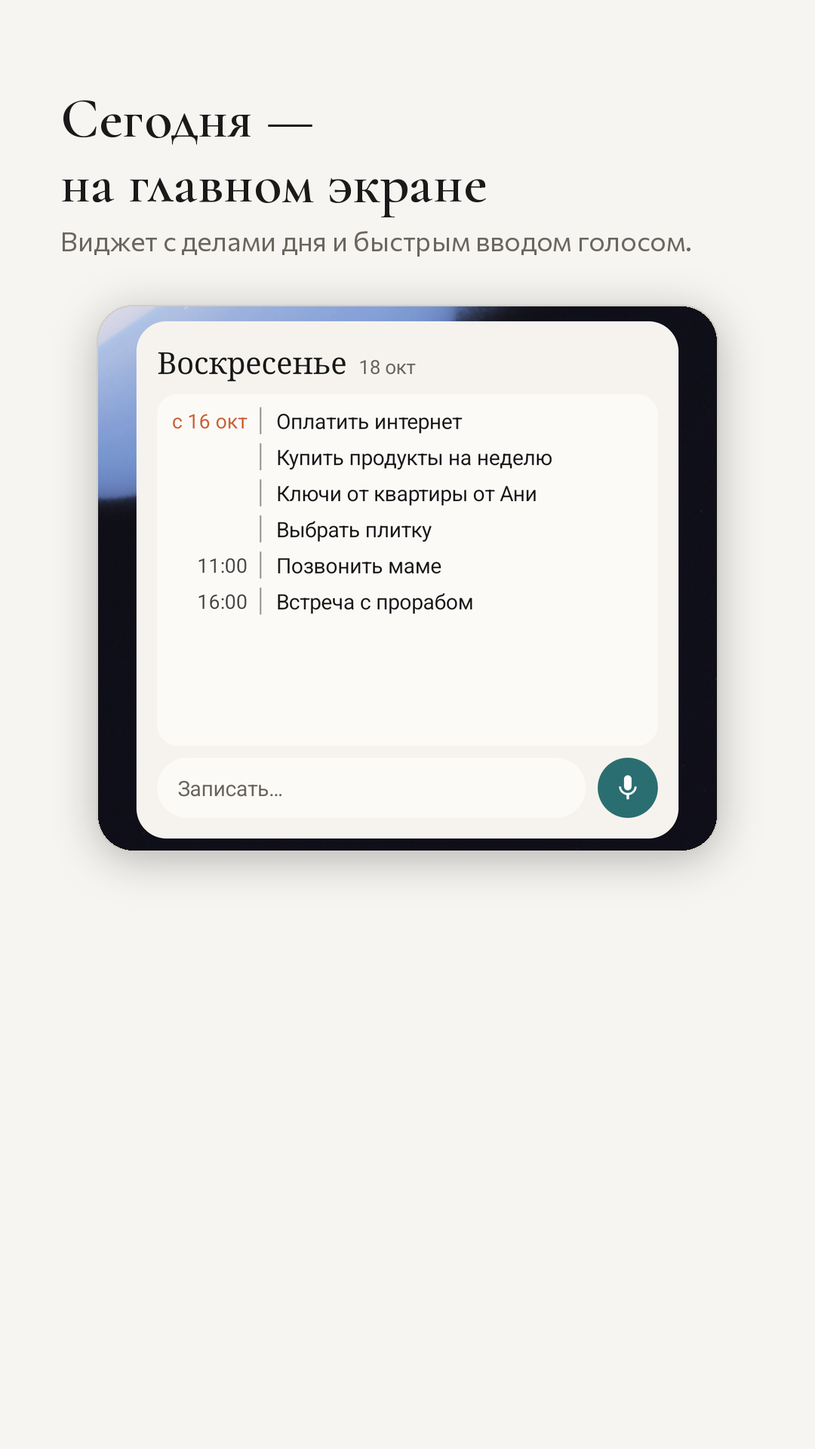
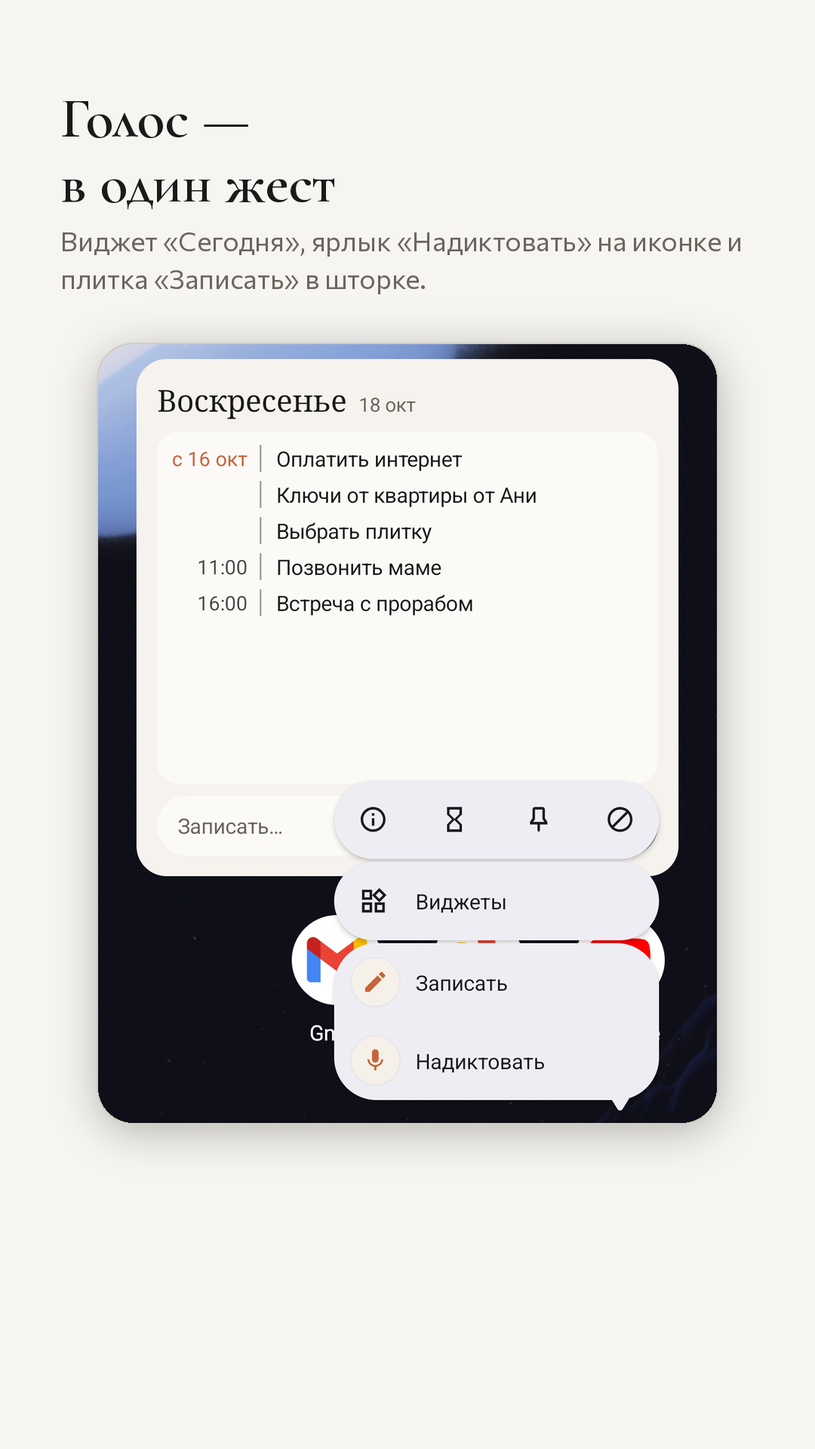
0.89: копия в файл и восстановление (Настройки → Резервная копия); виджет обновляется сразу; карточка RuStore — самая точная и быстрая расшифровка (сноска о скорости), ярлыки и плитка, копия в файл; скриншот с виджетом и ярлыками

diff --git a/app/src/main/java/ru/anjeib/margin/widget/TodayWidget.kt b/app/src/main/java/ru/anjeib/margin/widget/TodayWidget.kt
@@ -1,5 +1,7 @@
 package ru.anjeib.margin.widget
 
+import androidx.compose.runtime.collectAsState
+import androidx.compose.runtime.getValue
 import android.content.Context
 import android.content.Intent
 import androidx.compose.runtime.Composable
@@ -63,18 +65,21 @@ import java.util.Locale
 class TodayWidget : GlanceAppWidget() {
     override suspend fun provideGlance(context: Context, id: GlanceId) {
         L.lang = resolveLang(Prefs.get(context).settings.value.lang)
-        val data = Store.get(context).data.value
-        val today = LocalDate.now()
-        val due = data.listTasks().filter { !it.done && ((it.dueDate ?: it.startDate)?.let { d -> !d.isAfter(today) } == true || it.openWindow(today)) }
-            // The day's order as in the feed (0.85): late first, then the matters with no hour, then by the hour.
-            .sortedWith(compareBy({ (it.dueDate ?: it.startDate)?.isBefore(today) != true }, { it.time ?: "" }))
-        val s = L.s
-        val locale = if (L.lang == ru.anjeib.margin.i18n.Lang.Ru) Locale.forLanguageTag("ru") else Locale.ENGLISH
-        val dayName = today.dayOfWeek.getDisplayName(DateStyle.FULL_STANDALONE, locale).replaceFirstChar { it.uppercase() }
-        val dayDate = today.dayOfMonth.toString() + " " + today.month.getDisplayName(DateStyle.SHORT, locale).trimEnd('.')
+        val store = Store.get(context)
         // «когда» grows with the phone's font size, as on the app's margin.
         val whenW = (60f * context.resources.configuration.fontScale.coerceIn(1f, 2f)).dp
         provideContent {
+            // Read inside the content (18 окт): while the widget's session lives, an update recomposes it — values taken
+            // outside stayed as they were (after «Восстановить из файла» it kept «дел нет»).
+            val data by store.data.collectAsState()
+            val today = LocalDate.now()
+            val due = data.listTasks().filter { !it.done && ((it.dueDate ?: it.startDate)?.let { d -> !d.isAfter(today) } == true || it.openWindow(today)) }
+                // The day's order as in the feed (0.85): late first, then the matters with no hour, then by the hour.
+                .sortedWith(compareBy({ (it.dueDate ?: it.startDate)?.isBefore(today) != true }, { it.time ?: "" }))
+            val s = L.s
+            val locale = if (L.lang == ru.anjeib.margin.i18n.Lang.Ru) Locale.forLanguageTag("ru") else Locale.ENGLISH
+            val dayName = today.dayOfWeek.getDisplayName(DateStyle.FULL_STANDALONE, locale).replaceFirstChar { it.uppercase() }
+            val dayDate = today.dayOfMonth.toString() + " " + today.month.getDisplayName(DateStyle.SHORT, locale).trimEnd('.')
             // v8: «когда» left of a thin rule, as on the app's margin — the hour, or «с 8 окт» when late.
             Body(context, dayName, dayDate, due.take(6).map { t ->
                 val late = (t.dueDate ?: t.startDate)?.isBefore(today) == true

diff --git a/app/src/main/java/ru/anjeib/margin/data/FileBackup.kt b/app/src/main/java/ru/anjeib/margin/data/FileBackup.kt
@@ -1,0 +1,59 @@
+package ru.anjeib.margin.data
+
+import android.content.Context
+import android.net.Uri
+import java.io.File
+import java.util.zip.ZipEntry
+import java.util.zip.ZipInputStream
+import java.util.zip.ZipOutputStream
+
+/**
+ * A copy of everything in one .zip the user keeps where they like (owner, 18 окт, for RuStore: «всё на телефоне» needs a way
+ * to a new phone). Inside: «margin.json» — the records as the app keeps them — and «att/…», the files of notes and matters.
+ * Nothing leaves the phone by itself: the user picks the place (Files, Drive, a card) in the system's own window.
+ */
+object FileBackup {
+    private const val DATA = "margin.json"
+    private const val ATT = "att/"
+
+    fun write(ctx: Context, to: Uri, d: AppData) {
+        val out = ctx.contentResolver.openOutputStream(to, "wt") ?: error("no stream")
+        ZipOutputStream(out.buffered()).use { z ->
+            z.putNextEntry(ZipEntry(DATA))
+            z.write(AppJson.encodeToString(AppData.serializer(), d.copy(v = Store.SCHEMA)).toByteArray())
+            z.closeEntry()
+            Files.dir(ctx).listFiles()?.filter { it.isFile }?.forEach { f ->
+                z.putNextEntry(ZipEntry(ATT + f.name)); f.inputStream().use { it.copyTo(z) }; z.closeEntry()
+            }
+        }
+    }
+
+    /** The records of a copy, its files already in place; null — not a copy of Margin (nothing is touched then). */
+    fun read(ctx: Context, from: Uri): AppData? {
+        // Into a side folder first: a broken or foreign file must not leave half its files among the user's.
+        val side = File(ctx.cacheDir, "restore").apply { deleteRecursively(); mkdirs() }
+        var data: AppData? = null
+        runCatching {
+            ctx.contentResolver.openInputStream(from)?.use { input ->
+                ZipInputStream(input.buffered()).use { z ->
+                    while (true) {
+                        val e = z.nextEntry ?: break
+                        val name = e.name
+                        when {
+                            name == DATA -> data = AppJson.decodeFromString(AppData.serializer(), z.readBytes().decodeToString())
+                            name.startsWith(ATT) && !e.isDirectory -> {
+                                val base = File(name.removePrefix(ATT)).name  // no «../» out of the folder
+                                if (base.isNotBlank()) File(side, base).outputStream().use { z.copyTo(it) }
+                            }
+                        }
+                    }
+                }
+            }
+        }
+        val d = data ?: run { side.deleteRecursively(); return null }
+        val att = Files.dir(ctx)
+        side.listFiles()?.forEach { f -> f.copyTo(File(att, f.name), overwrite = true) }
+        side.deleteRecursively()
+        return d.migrated()
+    }
+}

diff --git a/app/src/main/java/ru/anjeib/margin/i18n/Strings.kt b/app/src/main/java/ru/anjeib/margin/i18n/Strings.kt
@@ -582,6 +582,17 @@ interface Strings {
     val actShare: String get() = "Переслать"
     /** «Переслать» for a cell of a card's tools, where the long word doesn't fit. */
     val actSend: String get() = "Послать"
+    val backupFile: String get() = "Сохранить копию в файл"
+    val backupFileHint: String get() = "Все дела, темы, дневник и файлы — одним файлом .zip. Положите его куда удобно: в «Файлы», на диск, в облако."
+    val restoreFile: String get() = "Восстановить из файла"
+    val restoreFileHint: String get() = "Например, на новом телефоне"
+    val restoreQ: String get() = "Заменить всё копией из файла?"
+    val restoreText: String get() = "Всё, что сейчас в Margin, заменится содержимым файла. Если здесь есть что-то новое, сначала сохраните копию."
+    val restoreReplace: String get() = "Заменить"
+    val backupSaved: String get() = "Копия сохранена"
+    val backupFailed: String get() = "Не получилось сохранить копию"
+    val restoreDone: String get() = "Восстановлено из копии"
+    val restoreFailed: String get() = "Это не копия Margin"
     val inboxSaved: String get() = "Во Входящих"
     val inboxMadeDeal: String get() = "Стало делом"
     val inboxMadeNote: String get() = "Стало заметкой"
@@ -1030,7 +1041,7 @@ object Ru : Strings {
             "Календарь" to "учитывать встречи из календаря телефона",
             "Уведомления" to "утренняя сводка и вечерний итог: включить и выбрать час",
             "Оформление" to "светлая, тёмная или как в системе",
-            "Резервная копия" to "копия в аккаунт Google — по желанию, по умолчанию выключена",
+            "Резервная копия" to "«Сохранить копию в файл» — всё одним .zip, «Восстановить из файла» — например, на новом телефоне; копия в аккаунт Google — по желанию",
             "Приватность" to "вход по отпечатку и «Где ваши данные»",
         )),
         // ---- legends ----

diff --git a/app/src/main/java/ru/anjeib/margin/ui/SettingsScreen.kt b/app/src/main/java/ru/anjeib/margin/ui/SettingsScreen.kt
@@ -168,7 +168,22 @@ fun SettingsScreen(settings: Settings, vm: MainVm, contentPadding: PaddingValues
             confirmButton = { androidx.compose.material3.TextButton({ demoAsk = false; vm.loadDemo(); mineKept = vm.hasMine() }) { Text(s.demoLoad, color = c.link) } },
             dismissButton = { androidx.compose.material3.TextButton({ demoAsk = false }) { Text(s.cancel, color = c.graphite) } })
 
+        // A copy in a file and back (18 окт): the system's own windows pick where — nothing leaves the phone by itself.
+        val saveTo = androidx.activity.compose.rememberLauncherForActivityResult(androidx.activity.result.contract.ActivityResultContracts.CreateDocument("application/zip")) { u -> u?.let { vm.backupTo(it) } }
+        var restoreUri by remember { mutableStateOf<android.net.Uri?>(null) }
+        val openFrom = androidx.activity.compose.rememberLauncherForActivityResult(androidx.activity.result.contract.ActivityResultContracts.OpenDocument()) { u -> restoreUri = u }
+        restoreUri?.let { u ->
+            androidx.compose.material3.AlertDialog(onDismissRequest = { restoreUri = null }, containerColor = c.card,
+                title = { Text(s.restoreQ, style = Type.cardTitle.copy(color = c.ink)) },
+                text = { Text(s.restoreText, style = Type.body.copy(color = c.graphite)) },
+                confirmButton = { androidx.compose.material3.TextButton({ restoreUri = null; vm.restoreFrom(u) }) { Text(s.restoreReplace, color = c.accentText) } },
+                dismissButton = { androidx.compose.material3.TextButton({ restoreUri = null }) { Text(s.cancel, color = c.graphite) } })
+        }
         Group(s.backupSection) {
+            ValueRow(s.backupFile, s.backupFileHint, "") {
+                saveTo.launch("Margin-" + java.time.LocalDate.now() + ".zip")
+            }
+            ValueRow(s.restoreFile, s.restoreFileHint, "") { openFrom.launch(arrayOf("application/zip", "application/octet-stream", "*/*")) }
             // First the main switch and what it means, then the optional file copy.
             ToggleRow(s.googleBackup, if (settings.googleBackup) s.googleBackupHint else s.googleBackupOff, settings.googleBackup) { on ->
                 vm.updateSettings { it.copy(googleBackup = on) }

diff --git a/app/src/main/java/ru/anjeib/margin/ui/MainVm.kt b/app/src/main/java/ru/anjeib/margin/ui/MainVm.kt
@@ -239,6 +239,22 @@ class MainVm(app: Application) : AndroidViewModel(app) {
     fun disconnectMail() { ru.anjeib.margin.ai.Forward.disconnectMail(ctx); ru.anjeib.margin.ai.Forward.schedule(ctx) }
 
     fun toastShown() { _toast.value = null }
+
+    /** «Сохранить копию в файл» (18 окт): everything in one .zip at the place the user picked. */
+    fun backupTo(uri: android.net.Uri) = viewModelScope.launch(kotlinx.coroutines.Dispatchers.IO) {
+        val ok = runCatching { store.flush(); ru.anjeib.margin.data.FileBackup.write(getApplication(), uri, data.value) }.isSuccess
+        _toast.value = if (ok) L.s.backupSaved else L.s.backupFailed
+    }
+
+    /** «Восстановить из файла»: the copy replaces what is here (undo can bring this back for a while). */
+    fun restoreFrom(uri: android.net.Uri) = viewModelScope.launch(kotlinx.coroutines.Dispatchers.IO) {
+        val d = runCatching { ru.anjeib.margin.data.FileBackup.read(getApplication(), uri) }.getOrNull()
+        if (d == null) { _toast.value = L.s.restoreFailed; return@launch }
+        val before = data.value
+        store.restore { cur -> d.copy(chat = cur.chat) }
+        runCatching { ru.anjeib.margin.notify.Reminders.rescheduleAll(getApplication()) }
+        kotlinx.coroutines.withContext(kotlinx.coroutines.Dispatchers.Main) { offerUndo(before, L.s.restoreDone) }
+    }
     fun dismissTray() { _trayFrom.value = null }
     fun clearNotice() { _notice.value = null }
 

diff --git a/CLAUDE.md b/CLAUDE.md
@@ -6,7 +6,7 @@
 
 ## Сейчас — читать первым (18 окт 2026)
 
-- **Актуальная версия — 0.88** (тег `v0.88`, сборка для RuStore — бесплатная, без альфа-кода; карточка магазина — `store/`): один экран «Дела» / «Дневник»; у темы нет страницы; свёртка тем; полный «Архив» со счётчиком в меню; дело с периодом стоит в ленте один раз; **в ленте дни подписаны по центру без полос, на полях только время** (поля 70 dp); шкала шрифтов L 16 · M 15 · S 13
+- **Актуальная версия — 0.89** (тег `v0.89`, сборка для RuStore — бесплатная, без альфа-кода; карточка магазина — `store/`): один экран «Дела» / «Дневник»; у темы нет страницы; свёртка тем; полный «Архив» со счётчиком в меню; дело с периодом стоит в ленте один раз; **в ленте дни подписаны по центру без полос, на полях только время** (поля 70 dp); шкала шрифтов L 16 · M 15 · S 13
 - **Текущий дизайн — «Полоса набора»** (с 0.65): раздел «Дизайн «Планер» → «Полоса набора»» ниже — читать с последних пунктов (0.65–0.68 главнее ранних), снимки 0.69 — `design/current/`. Шрифты Literata (записи), Commissioner (служебное), Cormorant Garamond (число дня, названия страниц).
 - **ИИ**: облачный ИИ выключен (`BuildConfig.CLOUD_AI = false`, с 0.63), разбор и речь — на телефоне (GigaAM, `third_party/`). Посредник — Cloud.ru (`server/cloudru/`, ключ `server/cloudru/env.local`), посредник Яндекса удалён (код — `archive/server-yandex/`).
 - **Сборка и выпуск** — разделы «Сборка» и «Версии и откат»; выпуск только по команде владельца, каждый билд — новый номер, тег и push. APK — `~/Desktop/Margin-<версия>.apk`, все версии — `releases/` (вне git).
@@ -117,7 +117,7 @@
 - **Настроек поведения нет.** Имя и время утренней сводки спрашиваются в чате при первом запуске (`MainVm.startSetup` / `setupAnswer`, `Settings.setupStep`), потом меняются словами («сводку в 9», «называй меня Аня») — действие `settings` в схеме. В меню нет «Обзора недели»; есть «Входящие» (`ui/InboxScreen.kt`): записанное без интернета и сохранённое без разбора, позже — письма.
 - **Каждая запись с большой буквы, имена тоже** («купить хлеб у тимура» → «Купить хлеб у Тимура»): `data/Writing.kt` (`sentence`, `withNames`, `properName`), применяется в `Assistant.apply`, в ручном вводе (`MainVm`) и миграцией старых данных.
 - **ИИ меняет только то, о чём сказано.** `Assistant.apply(strict = true, focus, recent)`: задачи, не упомянутые во фразе (и не открытая, и не из последних реплик), не трогаются; дата/время/повтор/«ждём» меняются, только если во фразе есть о них слова; новое обещание не сливается с повторяющейся задачей; повторы всегда стоят на ближайшей будущей дате (`onSchedule`); «заказать у X» — не ожидание. Это код, не промпт: работает при любой модели. Проверка — `GuardsTest` (офлайн).
-- **Резервная копия — только Android Auto Backup в аккаунт Google** с переключателем в настройках (`data/MarginBackupAgent.kt`, ключ `googleBackup`). Копия в файл, экспорт/импорт архива и Markdown убраны по решению владельца (3.10) — не возвращать без просьбы.
+- **Резервная копия — только Android Auto Backup в аккаунт Google** с переключателем в настройках (`data/MarginBackupAgent.kt`, ключ `googleBackup`). Копия в файл вернулась по просьбе владельца 18 окт 2026 (0.89, к RuStore): `data/FileBackup.kt` — .zip с `margin.json` и `att/`, «Сохранить копию в файл» / «Восстановить из файла» в Настройках → «Резервная копия» (системные окна выбора места, восстановление — с подтверждением и «Отменить»). Markdown-экспорта нет.
 - **Команды по ключевым словам — в коде, без ИИ** (`ai/Commands.kt`): глагол (добавь/добавим/запиши/создай/поставь/укажи/новая…) + объект (подзадачу, заметку, место/адрес, время, телефон, почту, telegram, участника, проект, запись, список…) или «Объект: …». Если значения хватает — делается сразу (`MainVm.runCommand`, тот же путь plan → apply → пузырь/отмена, `AiPlan.local`); если нужен смысл (даты, «к какой задаче») — уходит в ИИ с подсказкой `Commands.hint`. Без ключевых слов всё по-прежнему понимает ИИ. Тест — `CommandsTest`.
 - **Поле ввода вместо маленьких окон.** «+ подзадача / место / люди / проект» в задаче и заметке переводят поле ввода в режим «Подзадача: …» с голосом (`SmartComposer(modeLabel, focusKey)`, `MainVm.sendAs`); дата/время/повтор — по-прежнему выбор.
 - **Вопросов в чате нет.** Без времени/срока задача создаётся как есть, а в пузыре-результате тихо «Уточнить время / срок?» — открывает циферблат/календарь этой задачи, не нажали — уходит вместе с пузырём.
@@ -338,6 +338,8 @@
   - **Для RuStore**: `ALPHA_CODE` в сборке пустой, `Llm.door` не отправляет код приглашения без `CLOUD_AI` (старый код в настройках альфа-тестеров не используется). `PROXY_URL` остался только для списка файлов модели речи (`?op=speech`, без кода). В APK нет ни альфа-кода, ни ключей (проверено `strings` по dex).
 
 - **0.88 (18 окт, тег v0.88): к RuStore.** Строка темы в дне стоит по самому раннему часу её дел (было — на месте первого дела без часа, «16:00» вставало над «11:00»); во «Входящих» нет белой плашки под строкой (`SwipeActions` в покое прозрачный) и лишней линии над первым днём. **Карточка магазина** — `store/rustore.md` (название, краткое и полное описание, ключевые слова, что нового, для модерации), `store/icon-512.png`, `store/banner-1920x1080.png`, скриншоты 1080×1920 `store/screenshots/` (собраны `store`-скриптом из снимков эмулятора `store/raw/` на выдуманных данных; голосовое во «Входящих» — настоящее, распознано GigaAM на эмуляторе). Позиционирование владельца: бесплатно; русский голос и расшифровка голосовых — на телефоне; минимализм «швейцарского ежедневника»; Ежедневник + Дневник.
+
+- **0.89 (18 окт, тег v0.89): копия в файл, живой виджет, карточка магазина.** «Сохранить копию в файл» / «Восстановить из файла» (`data/FileBackup.kt`, Настройки → «Резервная копия»; проверено на эмуляторе: сохранить → очистить → восстановить, файлы вернулись). **Виджет** читал данные вне `provideContent` — пока его сессия жила, обновление перерисовывало старое (после восстановления — «дел нет»); теперь `store.data.collectAsState()` внутри, отметка дела видна сразу. Карточка RuStore: голос — «одна из самых точных и быстрых расшифровок русской речи на рынке*» со сноской «скорость зависит от телефона» (владелец; основание — GigaAM v3 и наши замеры, см. `store/rustore.md` → «Для модерации»), ярлыки и плитка, копия в файл; скриншот 07 — виджет и ярлыки «Записать / Надиктовать». Название «Margin» в RuStore свободно (владелец проверил).
 
 ## Стиль
 
